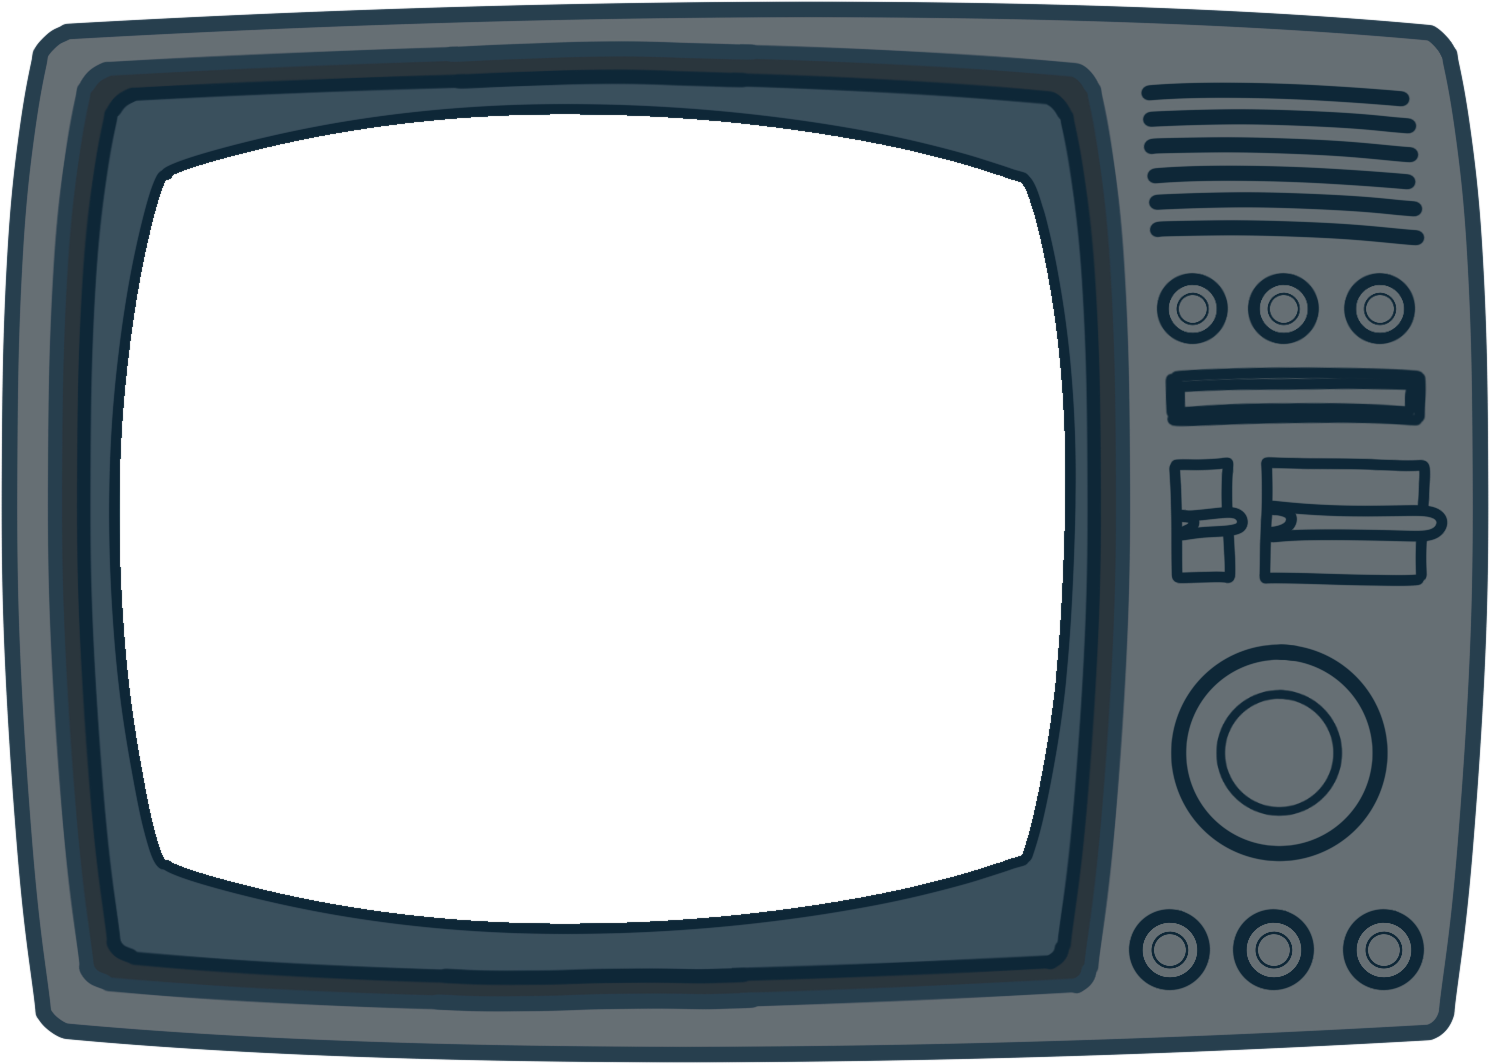
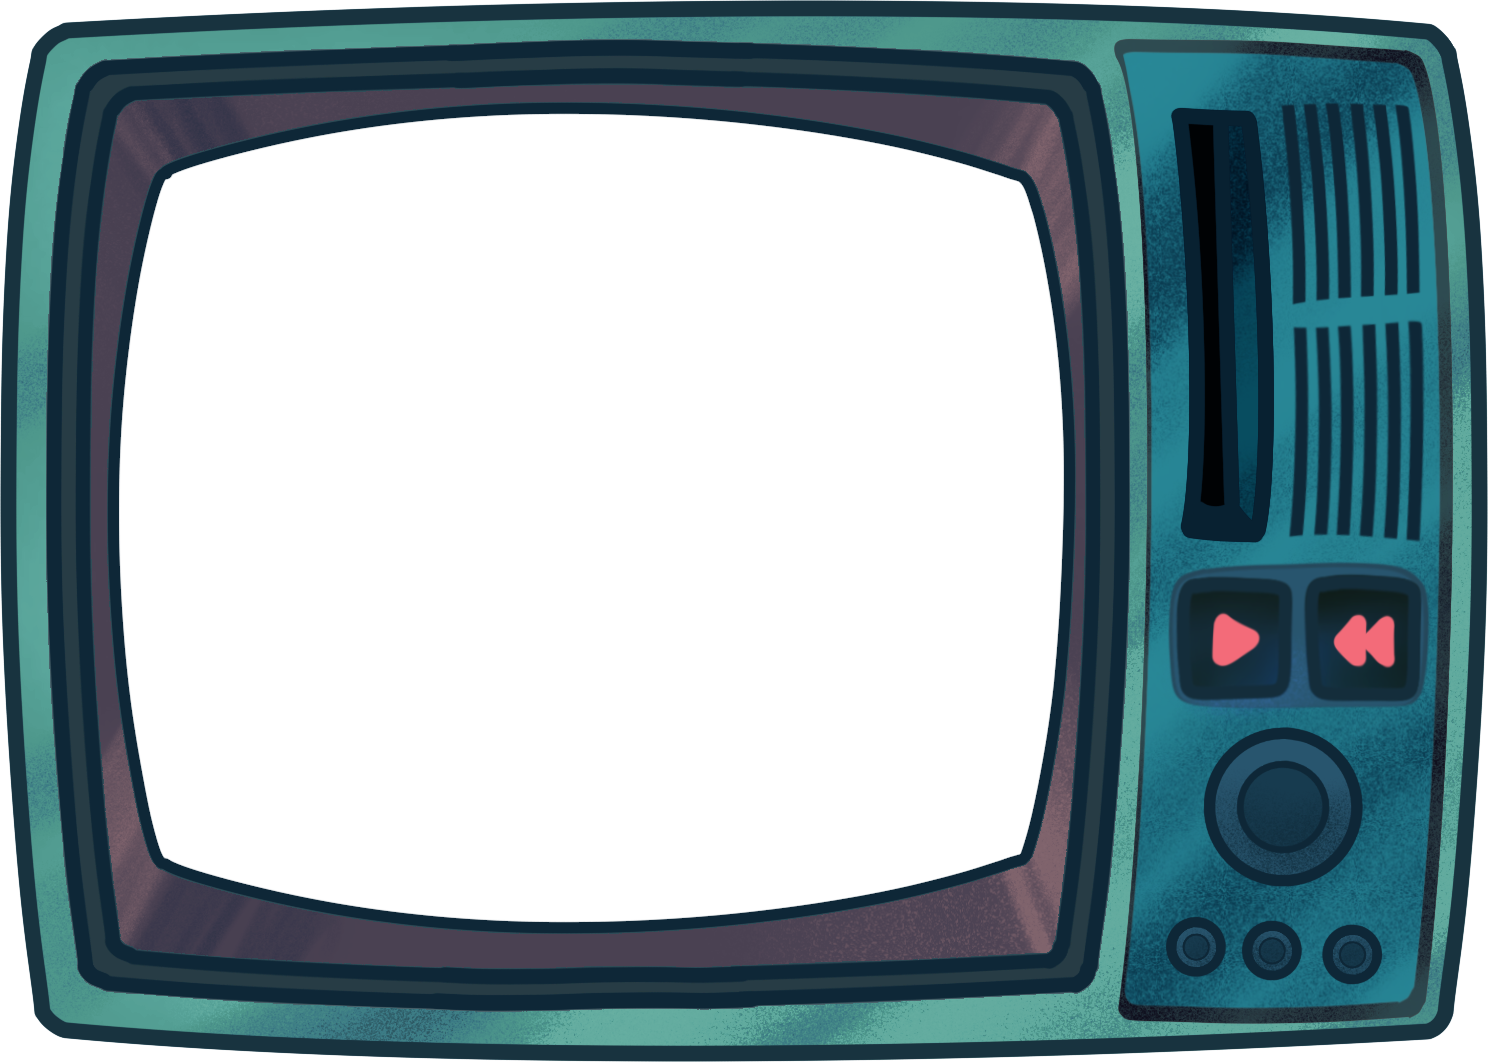
more art usage tweaks

diff --git a/src/widgets/cassetteplayer.tsx b/src/widgets/cassetteplayer.tsx
@@ -213,7 +213,10 @@ export function CassettePlayer(props: CassetteProps) {
     if (props.scaleDown) {
         return (
             <div className={styles.ScaledDown}>
-                <img className={styles.CassetteImage} src={cassettePlayerOpenImgUrl} />
+                <img
+                    className={styles.CassetteImage}
+                    src={cassetteTapeInsidePlayer ? cassettePlayerClosedImgUrl : cassettePlayerOpenImgUrl}
+                />
                 <img className={styles.CassetteButtons} src={cassettePlayerButtonsImgUrl} />
             </div>
         );

diff --git a/src/widgets/tv.module.css b/src/widgets/tv.module.css
@@ -1,6 +1,10 @@
 .TV {
     position: absolute;
     inset: 0;
+    transform: scale(0.8);
+}
+.TV.ScaledDown {
+    transform: unset;
 }
 .TVimg {
     width: 100%;
@@ -26,7 +30,7 @@
 .VHS {
     position: absolute;
     top: 1100px;
-    right: 300px;
+    right: 100px;
     width: 400px;
     cursor: grab;
 }
